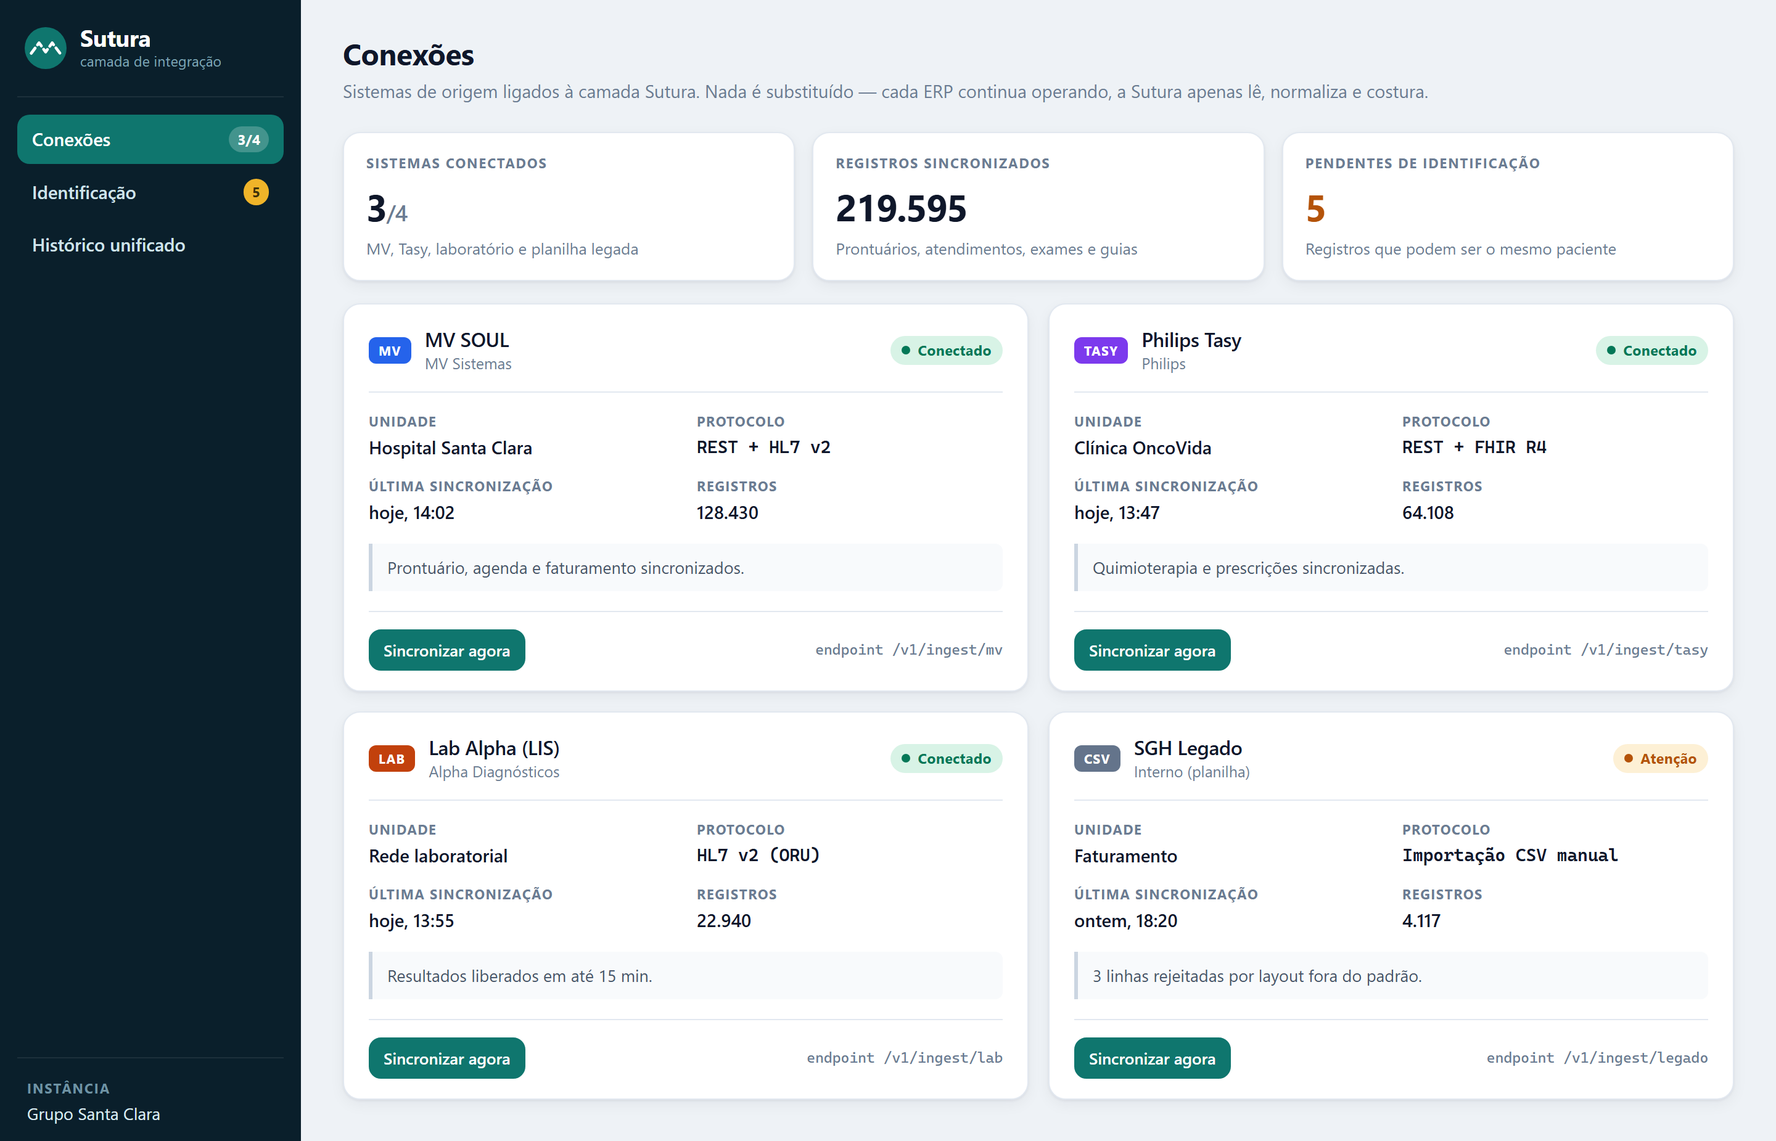
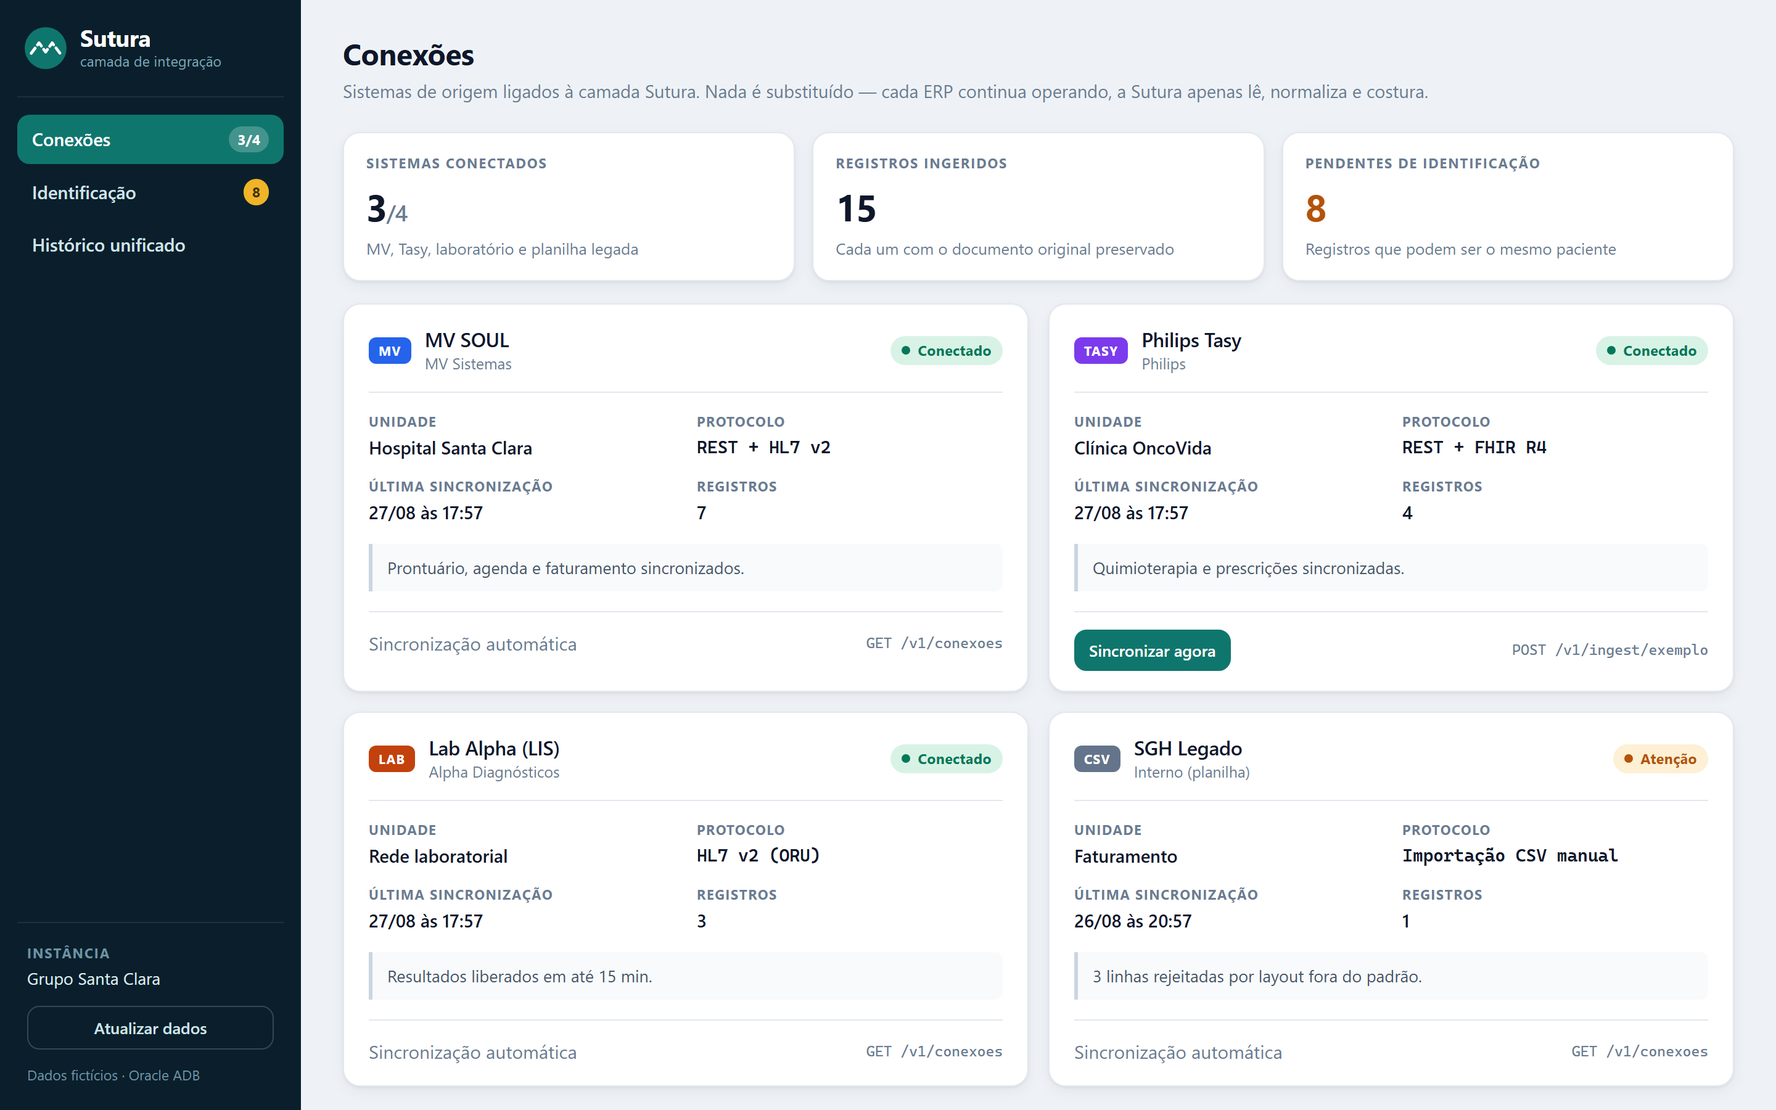
Atualiza o material de apresentação e torna a demonstração restaurável
O roteiro anterior descrevia o protótipo com dados fixos e ficou inválido quando
as telas passaram a ler do banco: citava botões que não existem mais, scores que
mudaram e um "Sincronizar" que era simulação e virou ingestão real. Foi reescrito
em vez de remendado, e os momentos foram reordenados — o caso da acentuação virou
o primeiro, porque é o mais forte e chega justamente da ingestão feita ao vivo.

Cinco capturas novas, tiradas da aplicação rodando contra o Oracle. A do caso da
acentuação mostra CONCEIÇÃO ROCHA e CONCEICAO ROCHA reconhecidos como o mesmo
valor com os dois originais à vista.

Para capturar estados que exigiriam clique, a tela de identificação passa a
aceitar ?abrir=<par> na URL, como a de histórico já aceitava ?modo=antes. Serve
para as capturas e para entrar direto num caso durante a apresentação.

scripts/reset-demo.sql restaura o estado inicial sem derrubar o schema: apaga
decisões, vínculos criados na sessão e registros vindos de ingestão, preservando
o seed. Cumpre o critério de aceite de demonstração restaurável.

Os COMMIT entre os passos do script não são decorativos. Sem eles o reset falha
com ORA-12860 (deadlock em sibling row lock): decisao_identificacao tem duas
chaves estrangeiras para a mesma tabela pai, e apagar filhas e pais na mesma
transação faz o banco esbarrar no próprio bloqueio. Acontece igual com a
aplicação parada — não é contenção.

A V7 cria índices para duas colunas de chave estrangeira que não tinham nenhum.
[…]

diff --git a/web/src/app/pages/identificacao/identificacao.ts b/web/src/app/pages/identificacao/identificacao.ts
@@ -1,5 +1,5 @@
 import { Component, inject, signal } from '@angular/core';
-import { RouterLink } from '@angular/router';
+import { ActivatedRoute, RouterLink } from '@angular/router';
 import { SISTEMAS } from '../../core/sistemas';
 import { Candidato, Recomendacao, SituacaoCampo } from '../../core/models';
 import { Decisao, SuturaStore } from '../../core/sutura-store';
@@ -13,7 +13,11 @@ import { Decisao, SuturaStore } from '../../core/sutura-store';
 export class Identificacao {
   protected readonly store = inject(SuturaStore);
   protected readonly sistemas = SISTEMAS;
-  protected readonly expandido = signal<string | null>(null);
+  /** ?abrir=<id do par> já abre aquele candidato — serve para capturas e links diretos. */
+  private readonly rota = inject(ActivatedRoute);
+  protected readonly expandido = signal<string | null>(
+    this.rota.snapshot.queryParamMap.get('abrir'),
+  );
 
   protected alternar(id: string): void {
     this.expandido.update((atual) => (atual === id ? null : id));

diff --git a/docs/apresentacao/roteiro-demo.md b/docs/apresentacao/roteiro-demo.md
@@ -1,126 +1,182 @@
 # Roteiro da demonstração — 5 minutos
 
-Mentoria 2 · 20/08/2026 · 19:30
+Versão de 27/08/2026, para a aplicação **ligada ao Oracle Autonomous Database**.
 
-Protótipo em `web/`. Subir com `npm start` dentro de `web/` e abrir `http://localhost:4200`.
-Deixar o navegador já aberto na tela **Conexões** antes de começar a apresentar.
-
-> Antes de começar: clicar em **Reiniciar demonstração** (canto inferior esquerdo) para
-> zerar o estado. Isso devolve a fila de identificação ao ponto inicial.
+> A versão anterior deste roteiro descrevia o protótipo com dados fixos. Ela não vale mais:
+> botões mudaram, scores mudaram e o "Sincronizar" deixou de ser simulação.
 
 ---
 
-## 0:00 – 0:45 · O problema (sem tela, ou no slide do Rich Picture)
+## Antes de começar
 
-> "Hoje um paciente não tem um histórico. Ele tem pedaços de histórico espalhados por
-> sistemas que não se falam. O hospital usa MV, a clínica de oncologia usa Tasy, o
-> laboratório tem o próprio sistema. Cada um enxerga um pedaço, ninguém enxerga a pessoa.
-> O resultado é exame repetido, história recontada, e uma equipe administrativa perdendo
-> mais de 50 horas por mês costurando isso na mão, no Excel."
+**1. Restaurar o estado da demonstração** (obrigatório se alguém já mexeu na aplicação):
 
-## 0:45 – 1:45 · Tela 1 — Conexões
+```
+api/scripts/reset-demo.sql
+```
 
-**Ação:** já está aberta. Apontar os quatro cartões.
+Rode pelo SQL Worksheet do console OCI (*Database actions → SQL*) ou por linha de comando.
+Ao final ele imprime a conferência — o esperado é **15 registros, 1 vínculo, 0 decisões,
+12 eventos**. Sem isso, o botão "Sincronizar" não traz nada novo e a linha do tempo já
+nasce completa, matando os dois melhores momentos da apresentação.
 
-> "A Sutura não substitui nenhum desses sistemas. Ela se conecta por cima. Aqui estão o MV
-> do Hospital Santa Clara, o Tasy da clínica de oncologia, o laboratório via HL7 — e um
-> quarto caso que todo mundo que trabalha com saúde reconhece: a planilha de faturamento
-> importada na mão, com linhas rejeitadas por layout fora do padrão."
+**2. Subir as duas pontas:**
 
-**Ação:** clicar em **Sincronizar agora** no cartão do MV. Esperar o spinner.
+```bash
+cd F:\PJ\FIAP\Sutura\api && mvn spring-boot:run -Dspring-boot.run.profiles=local
+```
 
-> "A sincronização traz os registros novos — e olha o que aparece."
+```bash
+cd F:\PJ\FIAP\Sutura\web && npm start
+```
 
-*(surge a faixa amarela: 2 novos pares suspeitos de serem o mesmo paciente)*
+**3. Deixar o navegador aberto em `http://localhost:4200/conexoes`** antes de apresentar.
 
-> "Dois novos pares de registros que provavelmente são a mesma pessoa em sistemas
-> diferentes. É aí que a Sutura faz o trabalho que dá nome a ela."
+---
+
+## 0:00 – 0:40 · O problema
+
+> "Um paciente não tem um histórico. Ele tem pedaços de histórico espalhados por sistemas
+> que não se falam. O hospital usa MV, a clínica de oncologia usa Tasy, o laboratório tem o
+> próprio sistema. Cada um enxerga um pedaço, ninguém enxerga a pessoa. O resultado é exame
+> repetido, história recontada, e uma equipe administrativa gastando mais de 50 horas por
+> mês costurando isso na mão."
+
+## 0:40 – 1:20 · Conexões — e uma ingestão de verdade
+
+**Tela:** já aberta em Conexões.
+
+> "A Sutura não substitui nenhum desses sistemas, se conecta por cima. MV, Tasy,
+> laboratório — e um quarto caso que quem trabalha com saúde reconhece na hora: a planilha
+> de faturamento importada na mão, com linhas rejeitadas por layout fora do padrão."
+
+**Ação:** clicar em **Sincronizar agora** no cartão do **Philips Tasy**.
+
+> "E isso aqui não é um botão de mentira. Ele manda um Bundle FHIR R4 para a API, que
+> parseia o documento, grava cada registro **preservando o documento original** para
+> auditoria, e manda o banco reavaliar quem pode ser a mesma pessoa."
+
+*(aparece: "2 registros novos e 3 eventos ingeridos")*
 
 **Ação:** clicar em **Ver fila de identificação →**.
 
-## 1:45 – 3:15 · Tela 2 — Identificação (o coração)
+## 1:20 – 3:00 · Identificação — o coração
 
-**Ação:** o primeiro cartão (score 96%) já vem aberto.
+> "Aqui está o motor. E ele não roda em Java: o score é calculado **dentro do Oracle**, com
+> `UTL_MATCH.JARO_WINKLER_SIMILARITY`, que é uma função nativa do banco. A gente usa o
+> Oracle como banco de verdade, não como um lugar onde guardar JSON."
 
-> "O motor compara CNS, CPF, data de nascimento, nome da mãe e similaridade do nome. Aqui:
-> o CNS é idêntico, a data de nascimento é idêntica, o nome da mãe confere. O que difere é
-> a grafia do nome — num sistema está 'Maria Aparecida Souza', no outro 'M. A. Souza' — e o
-> CPF que simplesmente não foi preenchido no Tasy. Para um sistema tradicional, são duas
-> pessoas. Para a Sutura, é a mesma pessoa com 96% de confiança."
+### Beat 1 — o caso que veio da ingestão (~40s)
 
-**Ação:** clicar em **Costurar registros**.
+**Ação:** abrir **SEBASTIÃO ROCHA MARTINS × SEBASTIAO MARTINS**, score 99.
 
-**Ação:** abrir o segundo cartão (91%, Maria Aparecida **de** Souza, laboratório) e costurar
-também.
+> "Este par acabou de chegar naquela sincronização. CNS confere, CPF confere, data de
+> nascimento confere. E olhem o nome da mãe: um sistema gravou CONCEIÇÃO com cedilha e til,
+> o outro gravou CONCEICAO sem acento nenhum."
 
-> "Mesma paciente, agora com a terceira fonte."
+**Apontar a linha "Nome da mãe", marcada como igual.**
 
-**Ação:** abrir o cartão do **João Carlos Ferreira** (score 58%, vermelho).
+> "Sistema de saúde brasileiro gravando sem acento é regra, não exceção — legado em ASCII,
+> integração que perde diacrítico, importação de planilha. Descobrimos isso testando com
+> dado realista: antes da correção, esse par caía de 99 para 89 e ia parar na fila de
+> revisão humana por causa de uma cedilha."
 
-> "E esse é o ponto que separa a Sutura de um 'de-para' ingênuo. Dois registros com o nome
-> exatamente igual. Um sistema burro juntaria os dois — e criaria um prontuário falso,
-> misturando o histórico de duas pessoas. Isso é risco clínico, não é bug de cadastro. A
-> Sutura olha CNS, CPF e data de nascimento, vê que tudo diverge, e **recomenda manter
-> separado**. A decisão final é sempre humana, e fica registrada para auditoria e LGPD."
+**Ação:** **Costurar registros**.
 
-**Ação:** clicar em **São pessoas diferentes**.
+### Beat 2 — o homônimo (~45s)
 
-**Ação:** no cartão costurado da Maria, clicar em **Ver histórico unificado →**.
+**Ação:** abrir **JOÃO CARLOS FERREIRA × JOÃO CARLOS FERREIRA**, score 10.
 
-## 3:15 – 4:30 · Tela 3 — Histórico unificado
+> "Agora o oposto. Nome escrito **exatamente igual** nos dois sistemas. Um de-para ingênuo
+> juntaria os dois na hora — e criaria um prontuário falso, misturando o histórico de duas
+> pessoas. Isso não é erro de cadastro, é risco clínico. Alguém pode receber medicação com
+> base no histórico de outro."
 
-> "Esse é o resultado da costura. Maria Aparecida, 62 anos, em tratamento de câncer de mama."
+> "A Sutura olha CNS, CPF, data de nascimento e nome da mãe, vê que **tudo** diverge, e
+> devolve score 10 com recomendação de manter separado. E não tem nenhum `if` no código
+> tratando esse caso: é a fórmula que chega nessa conclusão sozinha."
 
-**Ação:** apontar a faixa verde "Padrão detectado".
+**Ação:** **São pessoas diferentes**.
 
-> "Seis infusões com intervalo exato de 28 dias. Isso não são seis atendimentos avulsos — é
-> um tratamento contínuo, ciclo 6 de 8, com a próxima infusão prevista para 11 de setembro.
-> Repare na coluna da esquerda: as infusões vêm do Tasy, a cirurgia e as consultas vêm do
-> MV, a biópsia e o hemograma vêm do laboratório. Um histórico só, com a origem de cada
-> evento rastreada."
+> "E a decisão fica gravada com usuário, data e hora — inclusive a de separar. Auditoria
+> clínica e LGPD exigem poder responder quem decidiu o quê, e quando."
 
-**Ação:** clicar em **Antes da Sutura** (canto superior direito). *(o momento da virada)*
+### Beat 3 — costurar a Maria (~20s)
 
-> "E é assim que essa mesma paciente existe hoje. Três cadastros, com três grafias
-> diferentes do nome, e cada sistema enxergando cinco, quatro, três eventos de um histórico
-> de doze. O oncologista não vê o ecocardiograma que o hospital pediu. O hospital não sabe
-> em que ciclo ela está. E ninguém está errado — cada um está fazendo o certo com o pedaço
-> que tem."
+**Ação:** costurar os **dois** pares da Maria Aparecida (MV × Tasy e MV × Lab).
+
+**Ação:** clicar em **Ver histórico unificado →**.
+
+## 3:00 – 4:20 · Histórico unificado
+
+> "Maria Aparecida, 62 anos, em tratamento de câncer de mama. Isso aqui não existia trinta
+> segundos atrás — nasceu das costuras que a gente acabou de fazer."
+
+**Apontar a faixa verde.**
+
+> "Seis infusões com intervalo de 28 dias. Não são seis atendimentos avulsos: é um
+> tratamento contínuo, e o sistema projeta a próxima para 11 de setembro. Essa conta sai
+> dos dados, não é texto escrito na tela."
+
+> "Repare na origem de cada evento: as infusões vêm do Tasy, a cirurgia e as consultas vêm
+> do MV, a biópsia e o hemograma vêm do laboratório. Um histórico só, com a procedência de
+> cada linha rastreada até o sistema de origem."
+
+**Ação:** clicar em **Antes da Sutura**. *(o momento da virada)*
+
+> "E é assim que essa paciente existe hoje. Três cadastros, três grafias diferentes do
+> nome, e cada sistema enxergando quatro, seis, dois eventos de um histórico de doze. O
+> oncologista não vê o ecocardiograma que o hospital pediu. O hospital não sabe em que
+> ciclo ela está. E ninguém está errado — cada um está fazendo o certo com o pedaço que tem."
 
 **Ação:** voltar para **Com a Sutura**.
 
-## 4:30 – 5:00 · Fechamento
+## 4:20 – 5:00 · Fechamento
 
-> "Isso é um protótipo com dados fictícios — o backend em Java com Spring Boot e o Oracle
-> Autonomous Database entram no lugar da camada de dados que hoje está em memória. Mas o
-> fluxo é esse: conectar, identificar, costurar. E com o dado limpo e unificado, a próxima
-> camada é a automação de back-office e a prevenção de glosa — e ainda alimentar
-> ferramentas clínicas de IA, como a Sofya, que hoje recebem dado sujo e fragmentado.
-> A gente não é mais um sistema. A gente é a costura entre eles."
+> "Tudo o que vocês viram rodou contra um Oracle Autonomous Database em São Paulo, com
+> Spring Boot e Angular. Os dados são fictícios; o caminho é real — ingestão FHIR, motor de
+> identificação no banco, trilha de auditoria."
+
+> "O próximo passo é a camada que fica em cima disso: automação de back-office e prevenção
+> de glosa. E, com dado limpo e unificado, alimentar ferramentas clínicas de IA como a
+> Sofya, que hoje recebem dado sujo e fragmentado."
+
+> "A gente não é mais um sistema. A gente é a costura entre eles."
 
 ---
 
 ## Se algo der errado
 
-- **A aplicação não sobe:** usar as capturas de tela no deck (slides adicionados ao final).
-- **O estado ficou bagunçado no meio da demo:** botão **Reiniciar demonstração** na barra
-  lateral devolve tudo ao início sem recarregar a página.
-- **Perguntarem se está funcionando de verdade:** responder direto — é um protótipo
-  navegável com dados fictícios, o motor de identificação e a persistência são a próxima
-  entrega (08/09). Não vender como pronto; a honestidade aqui conta ponto.
+- **A tela mostra "Não foi possível falar com a API":** o backend caiu ou o banco parou.
+  Autonomous Free para sozinho após 7 dias sem uso — nesse caso, religar pelo console leva
+  ~1 minuto e o dado é preservado.
+- **"Sincronizar" responde "Nada novo":** o lote já foi ingerido. Rode o `reset-demo.sql`.
+- **A fila está vazia:** mesma coisa, rode o reset.
+- **Nada sobe a tempo:** as capturas em `docs/apresentacao` são o plano B.
 
-## Perguntas que provavelmente vão fazer
+## Perguntas prováveis
+
+**"Só 17 registros?"**
+É o lote de demonstração, não um teste de carga. O motor é o mesmo para dezessete ou para
+cento e vinte mil — a comparação roda no banco, com blocking por CNS, CPF, data de
+nascimento e SOUNDEX do nome para não virar produto cartesiano.
+
+**"E quando não há CNS nem CPF?"**
+Tem um caso desses na fila: dois "Roberto Nascimento" com a mesma data de nascimento e
+nenhum documento dos dois lados. O score dá 100 — tudo que dava para comparar bateu — mas o
+sistema manda para **revisão humana** mesmo assim, porque só havia 25 dos 100 pontos de
+evidência possíveis. Score alto com pouca evidência não é confiança, é ilusão.
 
 **"Os ERPs vão deixar vocês integrarem?"**
-É o principal risco do negócio, e está mapeado no stakeholder *TI/fornecedor do ERP*. MV e
-Tasy têm APIs REST e suporte a FHIR/HL7; o caminho é integração autorizada pelo cliente,
-que é o dono do dado — não raspagem.
+É o principal risco do negócio e está mapeado no stakeholder *TI/fornecedor do ERP*. MV e
+Tasy têm API REST e suporte a FHIR/HL7. O caminho é integração autorizada pelo cliente, que
+é o dono do dado — não raspagem.
 
 **"E a LGPD?"**
-Dado de saúde é dado sensível. O desenho prevê OCI Data Safe, mascaramento em ambientes
-não-produtivos, e trilha de auditoria em toda decisão de costura — que é exatamente o que
-a tela de identificação registra.
+Dado de saúde é dado sensível. Toda decisão de identidade é gravada com autor e momento, e
+o documento original de cada registro fica preservado para auditoria. No desenho, OCI Data
+Safe entra para mascaramento em ambiente não-produtivo.
 
 **"Isso não é o que um barramento de interoperabilidade já faz?"**
-Barramento transporta mensagem. Ele não resolve identidade do paciente nem back-office. A
-Sutura resolve o "quem é essa pessoa nos meus cinco sistemas" e o que vem depois disso.
+Barramento transporta mensagem. Ele não resolve identidade de paciente nem back-office. A
+Sutura resolve o "quem é essa pessoa nos meus cinco sistemas" — e o que vem depois disso.

diff --git a/docs/apresentacao/README.md b/docs/apresentacao/README.md
@@ -1,37 +1,46 @@
-# Apresentação — mentoria 2
+# Apresentação
 
-Material da apresentação do protótipo da Sutura. Mentoria 2 do challenge, 27/08/2026.
+Material da demonstração da Sutura, para a versão **ligada ao Oracle Autonomous Database**.
 
 ## Conteúdo
 
-| Arquivo | O que é |
+| Arquivo | O que mostra |
 |---|---|
-| [roteiro-demo.md](roteiro-demo.md) | Roteiro cronometrado de 5 minutos: falas, cliques exatos, plano B e as perguntas prováveis da banca com resposta |
-| `01-conexoes.png` | Hub de conexões — MV, Tasy, laboratório e a planilha legada |
-| `02-identificacao.png` | Fila de identificação — comparação campo a campo, incluindo o homônimo que o sistema recomenda **não** costurar |
-| `03-historico-unificado.png` | Histórico unificado — linha do tempo com a origem de cada evento e o padrão das infusões a cada 28 dias |
-| `04-antes-da-sutura.png` | A mesma paciente **antes** da costura: 3 cadastros, 3 grafias do nome, cada sistema vendo um pedaço |
+| [roteiro-demo.md](roteiro-demo.md) | Roteiro cronometrado de 5 minutos: preparação, falas, cliques na ordem, plano B e as perguntas prováveis com resposta |
+| `01-conexoes.png` | Hub de conexões — MV, Tasy, laboratório e a planilha legada, com os volumes reais do banco |
+| `02-fila-identificacao.png` | A fila no estado inicial, com os oito pares e as três recomendações diferentes |
+| `03-caso-acentuacao.png` | **A imagem mais forte.** O par do Sebastião aberto: `CONCEIÇÃO ROCHA` e `CONCEICAO ROCHA` reconhecidos como o mesmo valor, com os dois originais à vista |
+| `04-historico-unificado.png` | A linha do tempo costurada, com a origem de cada evento e o padrão das infusões |
+| `05-antes-da-sutura.png` | A mesma paciente antes da costura: três cadastros, três grafias, cada sistema vendo um pedaço |
 
-As capturas saíram da aplicação rodando, em 2880 px de largura (2×) — dá pra colar no
-PowerPoint sem serrilhar.
+Capturas em 2880 px de largura (2×), tiradas da aplicação rodando contra o banco.
+
+## Antes de apresentar
+
+Restaure o estado da demonstração, senão o botão "Sincronizar" não traz nada novo e a
+linha do tempo já nasce completa:
+
+```
+api/scripts/reset-demo.sql
+```
+
+O script imprime a conferência ao final — o esperado é **15 registros, 1 vínculo,
+0 decisões, 12 eventos**. Os passos e a preparação completa estão no
+[roteiro](roteiro-demo.md).
 
 ## Como regerar as capturas
 
-Com a aplicação no ar (`npm start` dentro de `web/`):
+Com backend e front no ar, e o banco no estado inicial:
 
 ```bash
-chrome --headless=new --hide-scrollbars --force-device-scale-factor=2 --window-size=1440,1010 --screenshot=01-conexoes.png http://localhost:4200/conexoes
+chrome --headless=new --hide-scrollbars --force-device-scale-factor=2 --window-size=1440,900 --screenshot=01-conexoes.png http://localhost:4200/conexoes
 ```
 
-A tela de histórico aceita `?modo=antes` na URL para abrir direto na visão fragmentada —
-serve tanto para a captura quanto para a demonstração ao vivo, se você quiser começar por
-ela sem precisar clicar no alternador.
+Duas telas aceitam parâmetro na URL, o que permite capturar estados que exigiriam clique:
 
-## Ordem da apresentação
+- `/identificacao?abrir=<id do par>` abre um candidato específico já expandido
+- `/paciente?modo=antes` abre direto na visão fragmentada
 
-1. Conexões → clicar em **Sincronizar agora** no MV
-2. Identificação → costurar os dois pares da Maria, depois abrir o caso do homônimo
-3. Histórico unificado → apontar o padrão das infusões
-4. Alternar para **Antes da Sutura** — é o ponto mais forte da demonstração
-
-O detalhamento de cada passo, com as falas, está no [roteiro](roteiro-demo.md).
+As capturas 03, 04 e 05 exigem que a ingestão e a costura da Maria já tenham sido feitas —
+ou seja, são tiradas **durante** a demonstração, não no estado inicial. Depois de gerá-las,
+rode o reset de novo.
